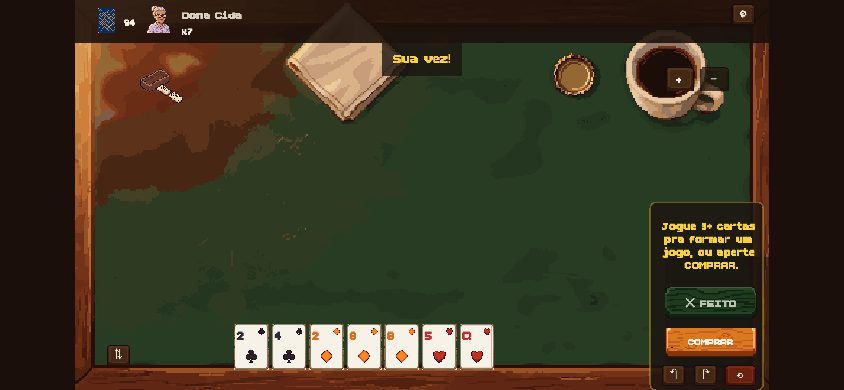
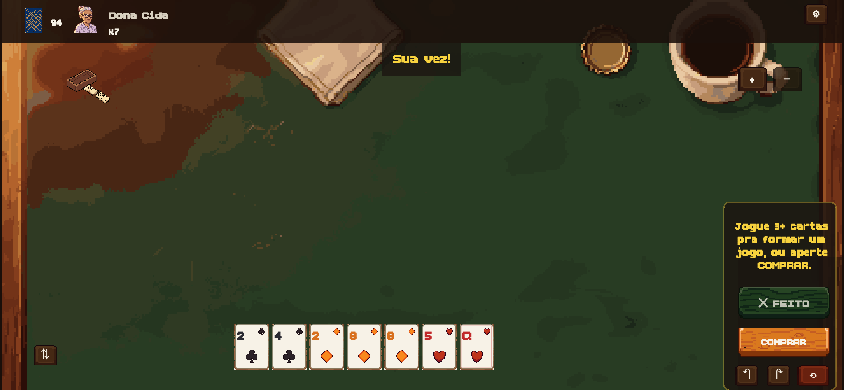
fix(viewport): fill the screen in landscape instead of letterboxing
The landscape world was a fixed 480x270 (16:9) rendered with Phaser's
Scale.FIT, so a phone in landscape (19.5:9) got fat black bars down both
sides — most visible in the installed PWA, where there is no browser
chrome to hide them.

The world now keeps its 270-unit height and grows sideways to match the
window's aspect ratio, clamped to [480, 630] and quantised to a multiple
of 6 so a one-pixel resize can't churn a full re-layout. 480 is the floor
because that is the authored grid: 16:10 and 4:3 windows stay exactly
where they were, and profileChanged() now also fires on a width change so
every scene re-lays-out on an aspect flip.

regions.ts treats the extra width as "the same layout with more table":
right-anchored furniture (action cluster, gear, zoom, tutorial panel)
slides right by dx, the table and hand grow into it, and centred text
follows the new centre. dx is 0 at 480, so the desktop grid is unchanged.

The menu scenes needed nothing — menu-layout.ts already maps everything
through view().w.

Claude-Session: https://claude.ai/code/session_01DYFhvd3i1b1coFbc1WSTqX

diff --git a/src/ui/regions.ts b/src/ui/regions.ts
@@ -81,11 +81,22 @@ export interface GameRegions {
   tutorialPanel: Rect;
 }
 
-/** Landscape button boxes grow a little on a touch screen; the cluster has the slack for it. */
+/**
+ * Landscape button boxes grow a little on a touch screen; the cluster has the slack for it.
+ *
+ * The grid is authored at 480 wide. A wider world (phones in landscape are 19.5:9, see
+ * `landscapeWidth` in viewport.ts) is treated as "the same layout with more table": `dx` is the
+ * extra width, right-anchored furniture (the action cluster, gear, zoom, tutorial panel) slides
+ * right by all of it, the table and the hand grow into it, and centred text follows the new
+ * centre. dx is 0 at 480, so the desktop grid is untouched.
+ */
 function landscape(p: ViewProfile): GameRegions {
   const t = p.touch;
+  const w = Math.max(480, p.w);
+  const dx = w - 480;
+  const half = dx / 2;
   return {
-    w: 480,
+    w,
     h: 270,
     portrait: false,
     touch: t,
@@ -97,44 +108,44 @@ function landscape(p: ViewProfile): GameRegions {
     opponentStep: 105,
     opponentY: 14,
 
-    banner: { x: 240, y: 41 },
-    lastMove: { x: 240, y: 70, wrap: 300 },
-    onlineNotice: { x: 240, y: 58, wrap: 300 },
+    banner: { x: w / 2, y: 41 },
+    lastMove: { x: w / 2, y: 70, wrap: 300 + dx },
+    onlineNotice: { x: w / 2, y: 58, wrap: 300 + dx },
     onlineDot: { x: 6, y: 264 },
 
     tableTop: 80,
     tableBottom: 188,
     tableLeft: 14,
-    tableAreaW: 480 - 96 - 14,
+    tableAreaW: w - 96 - 14,
     tableAreaH: 188 - 80 - 6,
-    tableRightBound: 480 - 84,
+    tableRightBound: w - 84,
 
     handY: 240,
-    handCenterX: 200,
-    handSpan: 330,
-    handZone: { x: 20, y: 240 - 24, w: 360, h: 48 },
+    handCenterX: 200 + half,
+    handSpan: 330 + dx,
+    handZone: { x: 20, y: 240 - 24, w: 360 + dx, h: 48 },
 
-    actionPanel: { x: 398, y: 140, w: 78, h: 130 },
-    feito: { x: 440, y: t ? 208 : 210, w: 64, h: t ? 28 : 22, size: 9 },
-    comprar: { x: 440, y: t ? 239 : 237, w: 64, h: t ? 24 : 20, size: 8 },
-    undo: { x: 414, y: t ? 261 : 260, w: t ? 20 : 16, h: t ? 17 : 14, size: 8 },
-    redo: { x: 436, y: t ? 261 : 260, w: t ? 20 : 16, h: t ? 17 : 14, size: 8 },
-    reset: { x: 460, y: t ? 261 : 260, w: t ? 24 : 22, h: t ? 17 : 14, size: 8 },
+    actionPanel: { x: 398 + dx, y: 140, w: 78, h: 130 },
+    feito: { x: 440 + dx, y: t ? 208 : 210, w: 64, h: t ? 28 : 22, size: 9 },
+    comprar: { x: 440 + dx, y: t ? 239 : 237, w: 64, h: t ? 24 : 20, size: 8 },
+    undo: { x: 414 + dx, y: t ? 261 : 260, w: t ? 20 : 16, h: t ? 17 : 14, size: 8 },
+    redo: { x: 436 + dx, y: t ? 261 : 260, w: t ? 20 : 16, h: t ? 17 : 14, size: 8 },
+    reset: { x: 460 + dx, y: t ? 261 : 260, w: t ? 24 : 22, h: t ? 17 : 14, size: 8 },
     sort: { x: 30, y: 246, w: t ? 20 : 16, h: t ? 17 : 14, size: 8 },
-    gear: { x: 462, y: 10, w: t ? 20 : 16, h: t ? 17 : 14, size: 8 },
+    gear: { x: 462 + dx, y: 10, w: t ? 20 : 16, h: t ? 17 : 14, size: 8 },
     // unused in landscape — GameScene only ever builds the toggle button in portrait
-    mexeToggle: { x: 462, y: 10, w: t ? 20 : 16, h: t ? 17 : 14, size: 8 },
-    // Free strip: barH (30) to tableTop (80), right of the table (x>398) — empty except the gear
-    // button (which sits above it, y10) and the tutorial panel (tutorial mode hides these instead).
-    zoomIn: { x: 418, y: 55, w: t ? 22 : 20, h: t ? 19 : 17, size: 9 },
-    zoomOut: { x: 442, y: 55, w: t ? 22 : 20, h: t ? 19 : 17, size: 9 },
+    mexeToggle: { x: 462 + dx, y: 10, w: t ? 20 : 16, h: t ? 17 : 14, size: 8 },
+    // Free strip: barH (30) to tableTop (80), right of the table (x>398+dx) — empty except the
+    // gear button (which sits above it, y10) and the tutorial panel (tutorial mode hides these).
+    zoomIn: { x: 418 + dx, y: 55, w: t ? 22 : 20, h: t ? 19 : 17, size: 9 },
+    zoomOut: { x: 442 + dx, y: 55, w: t ? 22 : 20, h: t ? 19 : 17, size: 9 },
 
-    reason: { x: 440, y: 191, wrap: 72, originY: 1, size: 9 },
-    selectHint: { x: 190, y: 265 },
+    reason: { x: 440 + dx, y: 191, wrap: 72, originY: 1, size: 9 },
+    selectHint: { x: 190 + half, y: 265 },
 
-    tooltip: { maxW: 96, minX: 0, maxX: 480 - 92, maxY: 270 - 30 },
+    tooltip: { maxW: 96, minX: 0, maxX: w - 92, maxY: 270 - 30 },
 
-    tutorialPanel: { x: 398, y: 2, w: 80, h: 176 },
+    tutorialPanel: { x: 398 + dx, y: 2, w: 80, h: 176 },
   };
 }
 

diff --git a/src/ui/viewport.ts b/src/ui/viewport.ts
@@ -4,8 +4,11 @@
  * The board is a fixed-aspect pixel world, so there is no continuous responsive layout — there
  * are two authored worlds and one rule for picking between them:
  *
- *   landscape (default, desktop): 480x270 — every coordinate in the game is unchanged from
- *   before this module existed, so a desktop window can never regress.
+ *   landscape (default, desktop): 480x270 at 16:9 — every coordinate in the game is unchanged
+ *   from before this module existed, so a desktop window can never regress. On a wider window
+ *   (a phone in landscape is 19.5:9) the world keeps its 270 height and grows sideways up to
+ *   LANDSCAPE_MAX_W so Phaser's FIT scaling fills the screen instead of adding side bars;
+ *   regions.ts slides the right-hand furniture out by that extra width.
  *   portrait (taller than wide): 270x480 — a re-stacked board with the table on top, the hand
  *   below it and a full-width action bar pinned to the bottom.
  *
@@ -24,6 +27,12 @@ export interface ViewProfile {
 
 export const LANDSCAPE_W = 480;
 export const LANDSCAPE_H = 270;
+/**
+ * Widest landscape world we will author. Phones are 19.5:9-to-21:9 in landscape, so a fixed
+ * 480x270 (16:9) world letterboxes them with fat side bars under Phaser's FIT. The world is
+ * allowed to grow horizontally up to this cap instead; anything wider (32:9 monitors) gets bars.
+ */
+export const LANDSCAPE_MAX_W = 630;
 export const PORTRAIT_W = 270;
 export const PORTRAIT_H = 480;
 
@@ -34,16 +43,32 @@ export const PORTRAIT_H = 480;
 export function pickProfile(winW: number, winH: number, coarsePointer: boolean): ViewProfile {
   const portrait = winH > winW * 1.05;
   return {
-    w: portrait ? PORTRAIT_W : LANDSCAPE_W,
+    w: portrait ? PORTRAIT_W : landscapeWidth(winW, winH),
     h: portrait ? PORTRAIT_H : LANDSCAPE_H,
     portrait,
     touch: coarsePointer,
   };
 }
 
+/**
+ * Landscape world width for a window: the height stays 270 and the width follows the window's
+ * aspect ratio, so the FIT-scaled canvas fills the screen instead of being letterboxed.
+ *
+ * Never narrower than 480 (that is the authored grid — narrowing it would crop the desktop
+ * layout), never wider than LANDSCAPE_MAX_W, and quantised to a multiple of 6 so a window
+ * resized by a pixel doesn't churn a full re-layout (and so the +dx/2 offsets in regions.ts stay
+ * whole units).
+ */
+function landscapeWidth(winW: number, winH: number): number {
+  if (winH <= 0) return LANDSCAPE_W;
+  const wanted = (winW / winH) * LANDSCAPE_H;
+  const clamped = Math.min(LANDSCAPE_MAX_W, Math.max(LANDSCAPE_W, wanted));
+  return Math.round(clamped / 6) * 6;
+}
+
 /** True when two profiles differ in a way that requires scenes to re-lay-out. */
 export function profileChanged(a: ViewProfile, b: ViewProfile): boolean {
-  return a.portrait !== b.portrait || a.touch !== b.touch;
+  return a.portrait !== b.portrait || a.touch !== b.touch || a.w !== b.w;
 }
 
 function detect(): ViewProfile {

diff --git a/tests/viewport.test.ts b/tests/viewport.test.ts
@@ -1,5 +1,5 @@
 import { describe, expect, it } from 'vitest';
-import { pickProfile, profileChanged } from '../src/ui/viewport';
+import { LANDSCAPE_MAX_W, pickProfile, profileChanged } from '../src/ui/viewport';
 
 describe('pickProfile', () => {
   it('1280x720 fine pointer -> 480x270 landscape, no touch', () => {
@@ -14,8 +14,23 @@ describe('pickProfile', () => {
     expect(pickProfile(390, 844, true)).toEqual({ w: 270, h: 480, portrait: true, touch: true });
   });
 
-  it('844x390 coarse -> landscape, touch', () => {
-    expect(pickProfile(844, 390, true)).toEqual({ w: 480, h: 270, portrait: false, touch: true });
+  it('844x390 coarse -> landscape, touch, world widened to the tablet aspect', () => {
+    expect(pickProfile(844, 390, true)).toEqual({ w: 582, h: 270, portrait: false, touch: true });
+  });
+
+  it('a 19.5:9 phone in landscape widens the world instead of letterboxing it', () => {
+    // 844x390 is an iPhone 14 Pro rotated; 270 * 844/390 = 584.3, quantised down to 582.
+    const p = pickProfile(844, 390, true);
+    expect(p.w / p.h).toBeCloseTo(844 / 390, 1);
+  });
+
+  it('16:10 and other sub-16:9 windows never narrow below the authored 480 grid', () => {
+    expect(pickProfile(1920, 1200, false).w).toBe(480);
+    expect(pickProfile(1024, 768, false).w).toBe(480);
+  });
+
+  it('an ultra-wide window is capped at LANDSCAPE_MAX_W', () => {
+    expect(pickProfile(5120, 1440, false).w).toBe(LANDSCAPE_MAX_W);
   });
 
   it('near-square 500x510 stays landscape (1.05 margin)', () => {
@@ -38,6 +53,10 @@ describe('profileChanged', () => {
     const a = pickProfile(1280, 720, false);
     const b = pickProfile(1280, 720, true);
     expect(profileChanged(a, b)).toBe(true);
+  });
+
+  it('true when only the world width differs (a landscape aspect change)', () => {
+    expect(profileChanged(pickProfile(1280, 720, false), pickProfile(844, 390, false))).toBe(true);
   });
 
   it('false for identical profiles', () => {

diff --git a/tests/regions.test.ts b/tests/regions.test.ts
@@ -133,3 +133,43 @@ describe('gameRegions portrait', () => {
     expect(r.zoomIn.y + r.zoomIn.h / 2).toBeLessThanOrEqual(r.zoomOut.y - r.zoomOut.h / 2);
   });
 });
+
+describe('gameRegions landscape on a wider-than-16:9 world', () => {
+  // 582x270 is what a 19.5:9 phone in landscape asks for (see viewport.landscapeWidth).
+  const r = gameRegions({ w: 582, h: 270, portrait: false, touch: true });
+
+  it('reports the wider world', () => {
+    expect(r.w).toBe(582);
+    expect(r.h).toBe(270);
+  });
+
+  it('every button still lies fully inside the world', () => {
+    for (const b of [r.feito, r.comprar, r.undo, r.redo, r.reset, r.sort, r.gear, r.zoomIn, r.zoomOut]) {
+      expect(b.x - b.w / 2).toBeGreaterThanOrEqual(0);
+      expect(b.x + b.w / 2).toBeLessThanOrEqual(r.w);
+    }
+  });
+
+  it('the action cluster stays inside its backdrop panel', () => {
+    expect(r.actionPanel.x + r.actionPanel.w).toBeLessThanOrEqual(r.w);
+    for (const b of [r.feito, r.comprar, r.undo, r.redo, r.reset]) {
+      expect(b.x - b.w / 2).toBeGreaterThanOrEqual(r.actionPanel.x - 2);
+    }
+  });
+
+  it('the table grows into the extra width and still clears the action panel', () => {
+    expect(r.tableAreaW).toBe(582 - 96 - 14);
+    expect(r.tableLeft + r.tableAreaW).toBeLessThanOrEqual(r.actionPanel.x);
+    expect(r.tableRightBound).toBeLessThanOrEqual(r.actionPanel.x);
+  });
+
+  it('the hand re-centres over the widened table area', () => {
+    expect(r.handCenterX).toBe(251);
+    expect(r.handZone.x + r.handZone.w).toBeLessThanOrEqual(r.actionPanel.x);
+  });
+
+  it('centred text follows the new centre', () => {
+    expect(r.banner.x).toBe(291);
+    expect(r.lastMove.x).toBe(291);
+  });
+});

diff --git a/e2e/screenshot.spec.ts b/e2e/screenshot.spec.ts
@@ -1102,13 +1102,17 @@ test('mobile-portrait-game: full-width table, hand carousel and a pinned action 
   );
 });
 
-test('mobile-landscape-game: a phone in landscape keeps the desktop board', async ({ page }) => {
+test('mobile-landscape-game: a phone in landscape widens the board to fill the screen', async ({ page }) => {
   await page.setViewportSize(PHONE_LANDSCAPE);
   await capture(page, '/?seed=42&showcase=game', 'mobile-landscape-game', async (p) => {
     await p.waitForFunction(() => window.__MEXE__.scene === 'game');
   });
   const v = await page.evaluate(() => window.__MEXE__.viewport());
-  expect(v).toMatchObject({ w: 480, h: 270, portrait: false });
+  // 19.5:9 in landscape: the world grows sideways instead of being letterboxed by Scale.FIT.
+  expect(v).toMatchObject({ w: 582, h: 270, portrait: false });
+  // ...and the canvas really does cover the viewport, no side bars.
+  const box = (await page.locator('canvas').boundingBox())!;
+  expect(box.width).toBeGreaterThan(PHONE_LANDSCAPE.width - 4);
 });
 
 test('mobile-tap-select: tapping a hand card selects it, tapping it again clears it', async ({ page }) => {

diff --git a/src/scenes/GameScene.ts b/src/scenes/GameScene.ts
@@ -306,7 +306,7 @@ export class GameScene extends Phaser.Scene {
       // right-hand action column, and a prop covering a paint smudge on the boteco felt. Portrait
       // reframes that art entirely (and puts the action bar along the bottom), so neither lands
       // where it was drawn for — the portrait board dims the whole table instead.
-      this.add.rectangle(444, 226, 72, 96, 0x1a0f0a, 0.55);
+      this.add.rectangle(this.r.w - 36, 226, 72, 96, 0x1a0f0a, 0.55);
       if (playerCount <= 2) {
         this.add.image(60, 60, 'prop-dominoes').setDisplaySize(32, 24).setDepth(1);
       }
